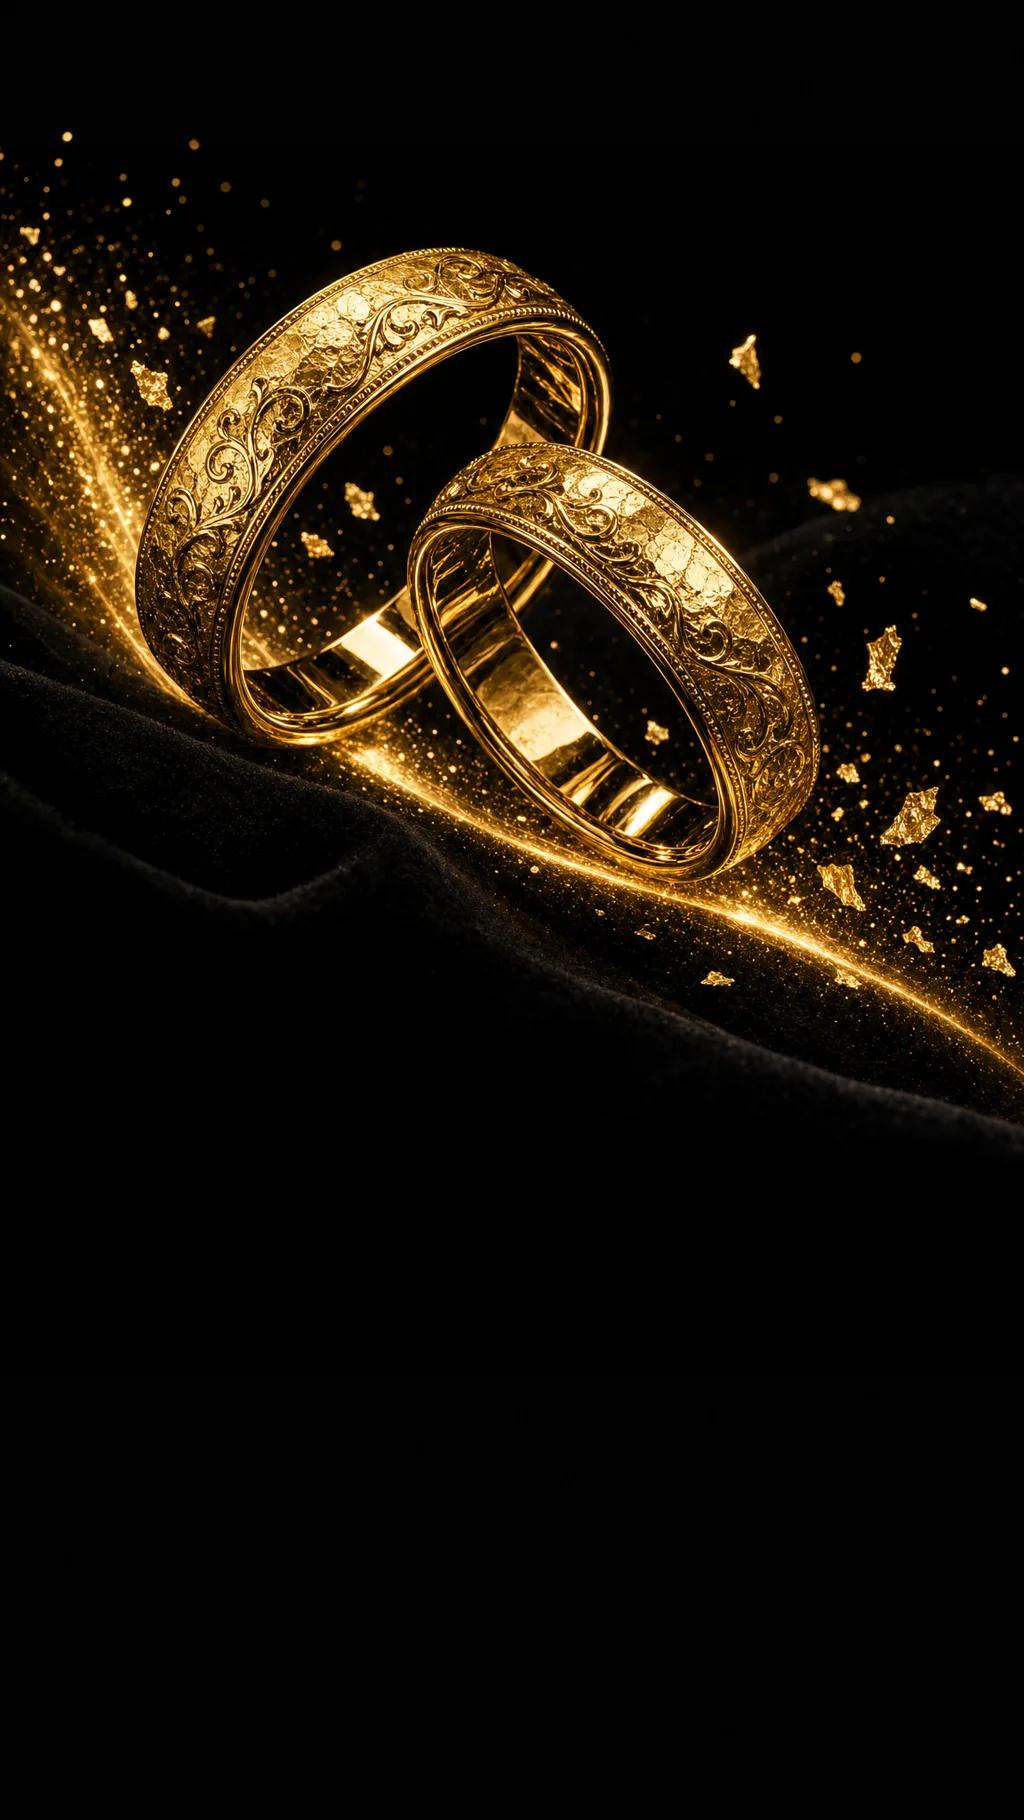
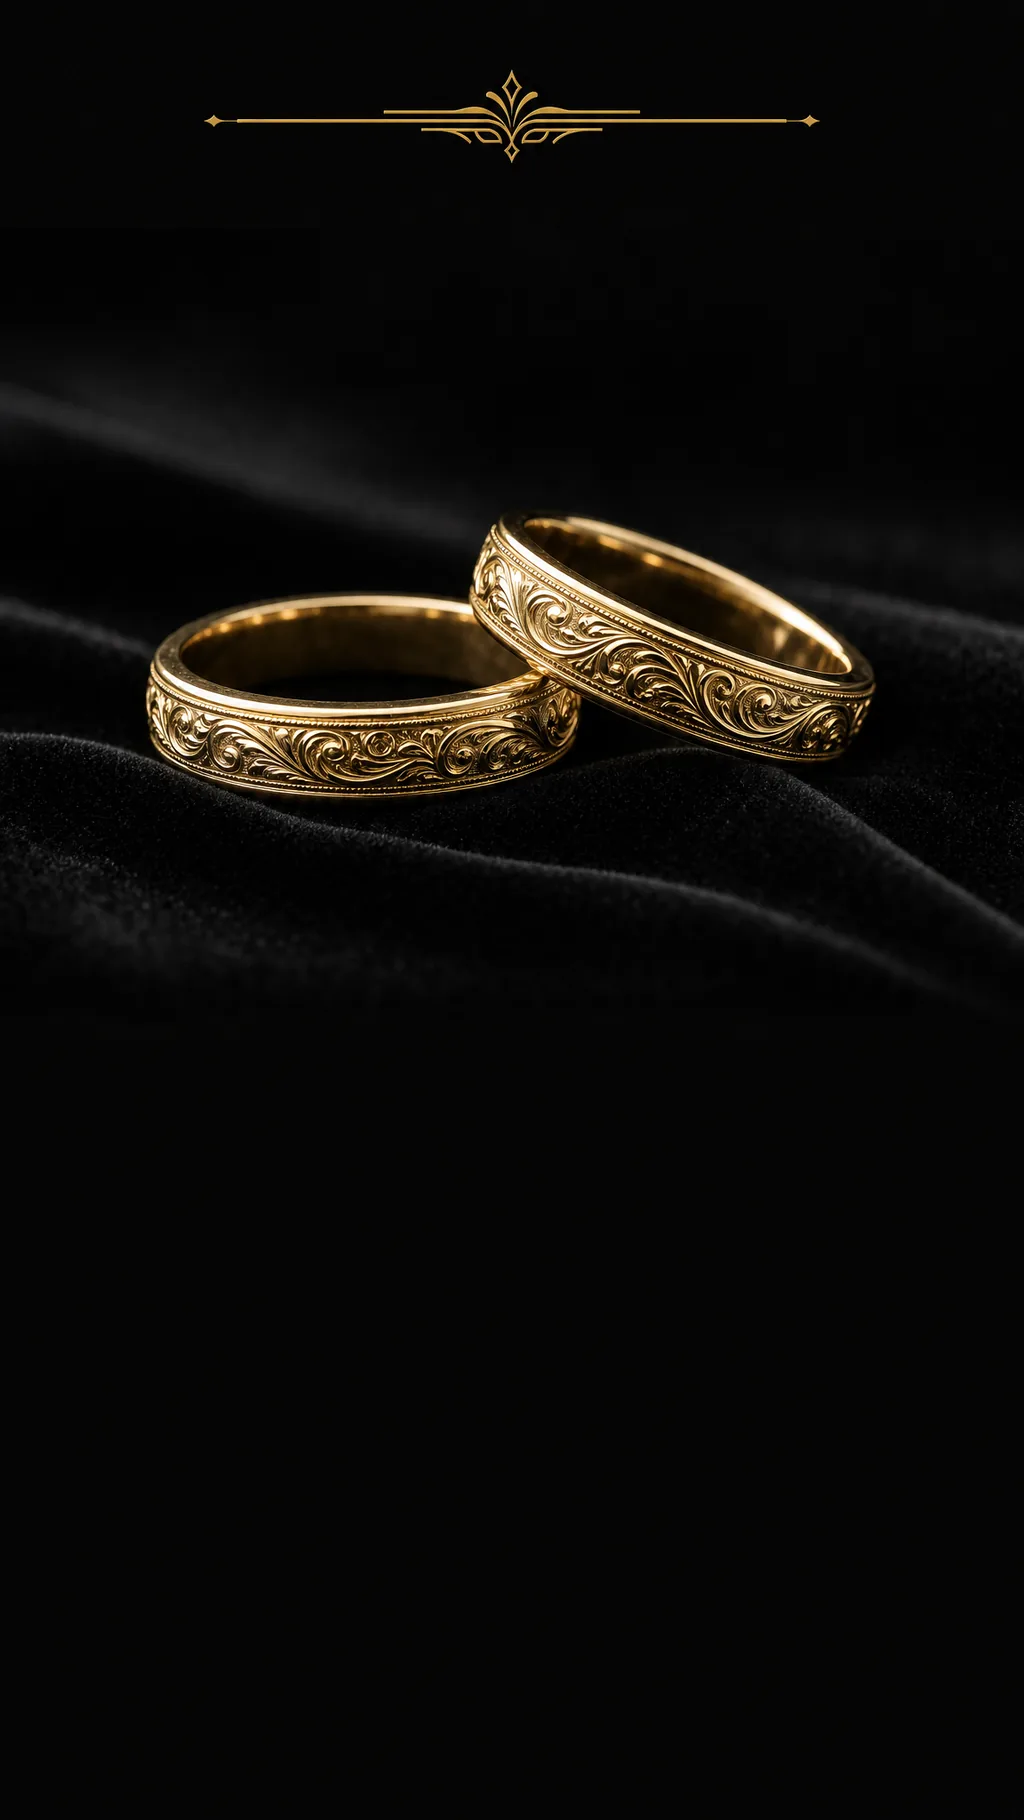
月讀の全スライスをv3に差し替え（生成写真クリシェ解消）
- 粒子爆発・光の尾・グロー系の演出を全廃し、彫りの質感・ベルベット・
  サイド光・被写界深度で高級感を出す方式に変更（anti-ai-design-recipes §1.5 準拠）
- 受け皿方式は維持（金箔バッジ・ベルベット帯・金ピル）。実測座標でオーバーレイ再調整
- はみ出し検査: 320/375px 全オーバーレイ clipped=0・フォント14px以上
- 画像容量: 3枚合計291KB（各500KB以下）

diff --git a/tsukuyomi/index.html b/tsukuyomi/index.html
@@ -51,7 +51,9 @@
           text-shadow:0 2px 10px rgba(0,0,0,.9);}
   /* 受け皿方式（image-lp-craft.md §2.5）: 画像内に生成した空の受け皿へ文字を載せる */
   .ov-badge{font-family:var(--serif);font-weight:800;color:#3B2A00;flex-direction:column;
-            font-size:clamp(14px,3.8vw,17px);letter-spacing:.04em;line-height:1.4;text-shadow:none;}
+            font-size:clamp(14px,3.8vw,17px);letter-spacing:0;line-height:1.4;text-shadow:none;}
+  /* 320px級の狭幅ではバッジ枠を金円の外周幅まで広げる（14px下限を守るため。円の内側には収まる） */
+  @media (max-width:340px){ .ov-badge{width:18% !important;left:74.9% !important;} }
   .ov-cta{font-family:var(--sans);font-weight:700;color:#1A1200;
           font-size:clamp(15px,4.2vw,19px);letter-spacing:.06em;text-decoration:none;}
   .ov-cta:hover{filter:brightness(1.15);}
@@ -108,25 +110,25 @@ p,li,dt,dd{text-wrap:pretty}
   <!-- ゾーンA+B: スライス1（ヒーロー・受け皿方式 v2） -->
   <div class="slice">
     <img src="images/01-hero.webp" width="1024" height="1820" loading="eager"
-         alt="ヒーロー: 月讀（つくよみ）。金の婚約指輪が光の尾を引いて斜めに浮かぶ。初回相談無料。一生に一度を、あなただけの一点に。オーダーメイドの結婚指輪・婚約指輪 ペア248,000円から。">
-    <p class="overlay ov-badge" style="top:9.6%;left:70.5%;width:25%;height:13.5%;">初回相談<br>無料</p>
-    <!-- 受け皿の実測値（ピクセル走査）: ベルベット帯の内側 62.2〜78.0% / 金ピルの内側 81.5〜90.7% -->
-    <p class="overlay ov-catch" style="top:64%;left:2%;width:96%;height:5.8%;line-height:1.5;">一生に一度を、あなただけの一点に。</p>
-    <p class="overlay ov-sub" style="top:70.2%;left:4%;width:92%;height:7%;line-height:1.25;">オーダーメイドの結婚指輪・婚約指輪<br>ペア 248,000円〜（税込）</p>
-    <a class="overlay ov-cta" href="#form" style="top:81.5%;left:17.5%;width:65%;height:9.2%;">無料でデザイン相談する →</a>
+         alt="ヒーロー: 月讀（つくよみ）。唐草彫りの金の婚約指輪が黒いベルベットの上でサイド光を受ける。初回相談無料。一生に一度を、あなただけの一点に。オーダーメイドの結婚指輪・婚約指輪 ペア248,000円から。">
+    <!-- 受け皿の実測値（v3・目視走査）: 金箔バッジの内側 x76.1〜92.1% y10.9〜19.9% / 金ピルの内側 y79.6〜86.6% -->
+    <p class="overlay ov-badge" style="top:11.3%;left:76.2%;width:15.8%;height:8.2%;">初回相談<br>無料</p>
+    <p class="overlay ov-catch" style="top:63.5%;left:2%;width:96%;height:5.8%;line-height:1.5;">一生に一度を、あなただけの一点に。</p>
+    <p class="overlay ov-sub" style="top:69.8%;left:4%;width:92%;height:7%;line-height:1.25;">オーダーメイドの結婚指輪・婚約指輪<br>ペア 248,000円〜（税込）</p>
+    <a class="overlay ov-cta" href="#form" style="top:80%;left:18%;width:64%;height:6.6%;">無料でデザイン相談する →</a>
   </div>
 
   <!-- ゾーンA+B: スライス2（世界観・彫金） -->
   <div class="slice">
     <img src="images/02-craft.webp" width="1024" height="1820" loading="lazy"
-         alt="彫金師が、ひとつずつ。職人の手が細いタガネで金の指輪に彫りを入れ、金箔と火花が舞う。図面から仕上げまで、ひとりの彫金師が担当します。">
+         alt="彫金師が、ひとつずつ。職人の手が細いタガネで、万力に固定した金の指輪へ唐草の彫りを入れる。削った金屑が作業台に散る。図面から仕上げまで、ひとりの彫金師が担当します。">
     <p class="overlay ov-lead" style="top:77%;left:10%;width:80%;height:10%;">図面から仕上げまで、<br>ひとりの彫金師が担当します。</p>
   </div>
 
   <!-- ゾーンA+B: スライス3（オファー帯） -->
   <div class="slice">
     <img src="images/03-offer.webp" width="1024" height="1820" loading="lazy"
-         alt="オファー: 黒いベルベットの上で、唐草彫りのペアの結婚指輪が金の光の尾と金箔をまといながら傾いている。オーダーメイド結婚指輪 ペア248,000円から。">
+         alt="オファー: 黒いベルベットの上に、唐草彫りのペアの結婚指輪が寄り添って置かれている。オーダーメイド結婚指輪 ペア248,000円から。">
     <p class="overlay ov-lead" style="top:62%;left:10%;width:80%;height:5%;">オーダーメイド結婚指輪</p>
     <p class="overlay ov-price" style="top:68%;left:10%;width:80%;height:7%;">ペア 248,000円〜（税込）</p>
     <a class="overlay btn" href="#form" style="top:80%;left:14%;width:72%;height:7.2%;">無料でデザイン相談する</a>
